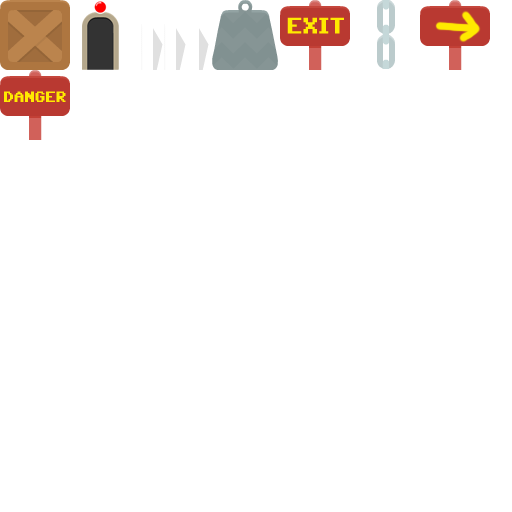
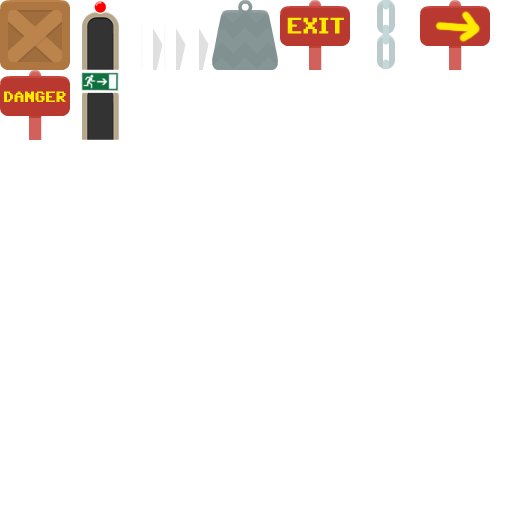
exitdoor added, only spitting out console log now

Changed region(s): [[0.1562, 0.125, 0.25, 0.2812]]

diff --git a/src/Level.js b/src/Level.js
@@ -6,8 +6,16 @@ define([
     'gameobjects/CloningMachine',
     'gameobjects/Spikes',
     'gameobjects/Weight',
-    'gameobjects/TriggerZone'
-], function (Constants, PlayerController, CloningMachine, Spikes, Weight, TriggerZone)
+    'gameobjects/TriggerZone',
+    'gameobjects/ExitDoor'
+], function (
+    Constants,
+    PlayerController,
+    CloningMachine,
+    Spikes,
+    Weight,
+    TriggerZone,
+    ExitDoor)
 {
     // Create a game object.
     var Level = function(fileName)
@@ -96,6 +104,7 @@ define([
         this.createUpdatableObjects(51, 'cloning-machine', CloningMachine);
         this.createUpdatableObjects(52, 'spikes', Spikes);
         this.createUpdatableObjects(53, 'weight', Weight);
+        this.createUpdatableObjects(58, 'exitdoor', ExitDoor);
 
         // Trigger zones.
         var objectsArray = this.map.objects.Objects;

diff --git a/src/gameobjects/ExitDoor.js b/src/gameobjects/ExitDoor.js
@@ -1,0 +1,24 @@
+define([
+    '../GlobalFunctions'
+], function(GlobalFunctions) {
+
+    function ExitDoor(sprite)
+    {
+        this.sprite = sprite;
+    }
+
+    ExitDoor.ACTIVE_DISTANCE = 38;
+
+    ExitDoor.respawnPosition = new Phaser.Point();
+
+    ExitDoor.prototype.update = function()
+    {
+        if (GlobalFunctions.distanceToPlayer(this.sprite) < ExitDoor.ACTIVE_DISTANCE)
+        {
+            console.log('exit door reached!');
+        }
+    };
+
+    return ExitDoor;
+
+});

diff --git a/src/Loader.js b/src/Loader.js
@@ -21,6 +21,7 @@ define([], function ()
         game.load.image('cloning-machine-active', 'assets/objects/cloning-machine-active.png');
         game.load.image('spikes', 'assets/objects/spikes.png');
         game.load.image('weight', 'assets/objects/weight.png');
+        game.load.image('exitdoor', 'assets/objects/exitdoor.png');
     };
 
     return Loader;
